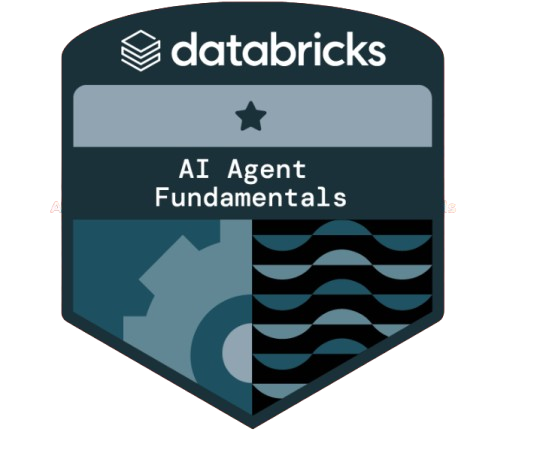
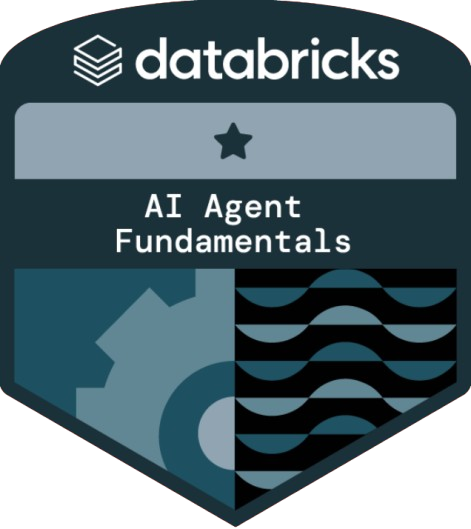
Padroniza faixa de badges do hero: sem clone, tamanho uniforme
- Troca a imagem do badge AI Agent Fundamentals por versao sem marca dagua
- Remove o mecanismo de clonagem (JS + wrapper #badge-track-source); a
  faixa agora mede sozinha se o conteudo transborda do espaco disponivel
  e so entao aplica um vaivem suave, sem salto - sem duplicar nada
- Padrao fixo daqui em diante: nova certificacao = um <a> a mais na
  faixa, sempre h-36, sem clone

diff --git a/index.html b/index.html
@@ -59,15 +59,18 @@
   .accordion-panel.open { grid-template-rows: 1fr; }
   .accordion-panel > div { overflow: hidden; }
 
-  /* ===== Faixa de badges rolante (hero) =====
-     #badge-track-source e a lista real das certificacoes (edite so ali).
-     A copia usada para fechar o loop e clonada em JS no fim da pagina -
-     nunca duplique certificacao a mao neste arquivo. */
+  /* ===== Faixa de badges (hero) =====
+     PADRÃO FIXO a partir daqui: nunca clonar conteúdo para fechar loop.
+     #badge-track leva a lista real de certificações, uma vez só — para
+     adicionar uma nova, é só somar um <a> aqui dentro. O script no fim da
+     página mede se o conteúdo transborda do contêiner; só então aplica um
+     vaivém (ida e volta suave, sem salto) com a distância exata medida.
+     Se tudo couber sem transbordar, a faixa fica parada. */
   .badge-marquee { -webkit-mask-image: linear-gradient(90deg, transparent, #000 4%, #000 96%, transparent); mask-image: linear-gradient(90deg, transparent, #000 4%, #000 96%, transparent); }
-  .badge-marquee-track { animation: badge-scroll 16s linear infinite; }
-  .badge-marquee:hover .badge-marquee-track { animation-play-state: paused; }
-  @keyframes badge-scroll { from { transform: translateX(0%); } to { transform: translateX(-50%); } }
-  @media (prefers-reduced-motion: reduce) { .badge-marquee-track { animation: none; } }
+  .badge-marquee-track.is-scrolling { animation: badge-pingpong 9s ease-in-out infinite alternate; }
+  .badge-marquee:hover .badge-marquee-track.is-scrolling { animation-play-state: paused; }
+  @keyframes badge-pingpong { from { transform: translateX(0); } to { transform: translateX(var(--badge-shift, 0)); } }
+  @media (prefers-reduced-motion: reduce) { .badge-marquee-track.is-scrolling { animation: none; } }
 
   a:focus-visible, button:focus-visible, input:focus-visible, textarea:focus-visible {
     outline: 2px solid #B98D42; outline-offset: 2px; border-radius: 4px;
@@ -289,29 +292,27 @@
       </div>
     </div>
 
-    <!-- Faixa rolante de certificações (esquerda -> direita, loop infinito).
-         EDITÁVEL: adicione um novo <a> dentro de #badge-track-source para
-         cada certificação nova. A cópia para o loop é gerada sozinha por
-         script, no fim da página — não duplique nada aqui. -->
+    <!-- Faixa de badges do hero. PADRÃO FIXO: sem clone, sem duplicação.
+         EDITÁVEL: para uma nova certificação, some um <a> aqui dentro,
+         sempre com a mesma altura (h-36) dos demais. O script no fim da
+         página mede sozinho se precisa de vaivém ou se fica parado. -->
     <div class="badge-marquee absolute bottom-4 left-0 right-0 overflow-hidden h-36">
       <div id="badge-track" class="badge-marquee-track flex w-max items-center gap-10">
-        <div id="badge-track-source" class="flex items-center gap-10 pr-10">
-          <a href="https://credentials.databricks.com/2711e18c-1554-4c2f-b6b8-0d9ec6ec68e2" target="_blank" rel="noopener noreferrer"
-             title="Databricks Fundamentals — Databricks Academy"
-             class="block shrink-0 hover:-translate-y-0.5 hover:opacity-90 transition-all">
-            <img src="assets/badge-databricks-fundamentals.png" alt="Databricks Fundamentals badge — Databricks Academy" class="h-36 w-auto object-contain" loading="lazy" />
-          </a>
-          <a href="https://credentials.databricks.com/177a8676-436c-47bd-995c-c4551746f6ec" target="_blank" rel="noopener noreferrer"
-             title="Generative AI Fundamentals — Databricks Academy"
-             class="block shrink-0 hover:-translate-y-0.5 hover:opacity-90 transition-all">
-            <img src="assets/badge-generative-ai-fundamentals.png" alt="Generative AI Fundamentals badge — Databricks Academy" class="h-36 w-auto object-contain" loading="lazy" />
-          </a>
-          <a href="https://credentials.databricks.com/f1b1f02f-97f9-42ab-8911-0f68b38aee72" target="_blank" rel="noopener noreferrer"
-             title="AI Agent Fundamentals — Databricks Academy"
-             class="block shrink-0 hover:-translate-y-0.5 hover:opacity-90 transition-all">
-            <img src="assets/badge-ai-agent-fundamentals.png" alt="AI Agent Fundamentals badge — Databricks Academy" class="h-36 w-auto object-contain" loading="lazy" />
-          </a>
-        </div>
+        <a href="https://credentials.databricks.com/2711e18c-1554-4c2f-b6b8-0d9ec6ec68e2" target="_blank" rel="noopener noreferrer"
+           title="Databricks Fundamentals — Databricks Academy"
+           class="block shrink-0 hover:-translate-y-0.5 hover:opacity-90 transition-all">
+          <img src="assets/badge-databricks-fundamentals.png" alt="Databricks Fundamentals badge — Databricks Academy" class="h-36 w-auto object-contain" loading="lazy" />
+        </a>
+        <a href="https://credentials.databricks.com/177a8676-436c-47bd-995c-c4551746f6ec" target="_blank" rel="noopener noreferrer"
+           title="Generative AI Fundamentals — Databricks Academy"
+           class="block shrink-0 hover:-translate-y-0.5 hover:opacity-90 transition-all">
+          <img src="assets/badge-generative-ai-fundamentals.png" alt="Generative AI Fundamentals badge — Databricks Academy" class="h-36 w-auto object-contain" loading="lazy" />
+        </a>
+        <a href="https://credentials.databricks.com/f1b1f02f-97f9-42ab-8911-0f68b38aee72" target="_blank" rel="noopener noreferrer"
+           title="AI Agent Fundamentals — Databricks Academy"
+           class="block shrink-0 hover:-translate-y-0.5 hover:opacity-90 transition-all">
+          <img src="assets/badge-ai-agent-fundamentals.png" alt="AI Agent Fundamentals badge — Databricks Academy" class="h-36 w-auto object-contain" loading="lazy" />
+        </a>
       </div>
     </div>
   </section>
@@ -1142,19 +1143,26 @@
   document.querySelectorAll('.reveal').forEach(function (el) { revealObserver.observe(el); });
 
   /* =========================================================
-     FAIXA DE BADGES — clona #badge-track-source uma vez para
-     fechar o loop continuo. Edite so o source: novas certificacoes
-     entram so ali, a copia e sempre gerada aqui.
+     FAIXA DE BADGES — sem clone, sem duplicacao (padrao fixo).
+     Mede se o conteudo transborda do container; so entao aplica um
+     vaivem (ida e volta suave) com a distancia exata que falta mostrar.
+     Se tudo couber, a faixa fica parada. Reavalia no resize.
   ========================================================= */
   (function () {
+    var wrap = document.querySelector('.badge-marquee');
     var track = document.getElementById('badge-track');
-    var source = document.getElementById('badge-track-source');
-    if (!track || !source) return;
-    var clone = source.cloneNode(true);
-    clone.removeAttribute('id');
-    clone.setAttribute('aria-hidden', 'true');
-    clone.querySelectorAll('a').forEach(function (a) { a.setAttribute('tabindex', '-1'); });
-    track.appendChild(clone);
+    if (!wrap || !track) return;
+    function ajustar() {
+      track.classList.remove('is-scrolling');
+      track.style.removeProperty('--badge-shift');
+      var sobra = track.scrollWidth - wrap.clientWidth;
+      if (sobra > 4) {
+        track.style.setProperty('--badge-shift', (-sobra - 16) + 'px');
+        track.classList.add('is-scrolling');
+      }
+    }
+    ajustar();
+    window.addEventListener('resize', ajustar);
   })();
 
   /* =========================================================
